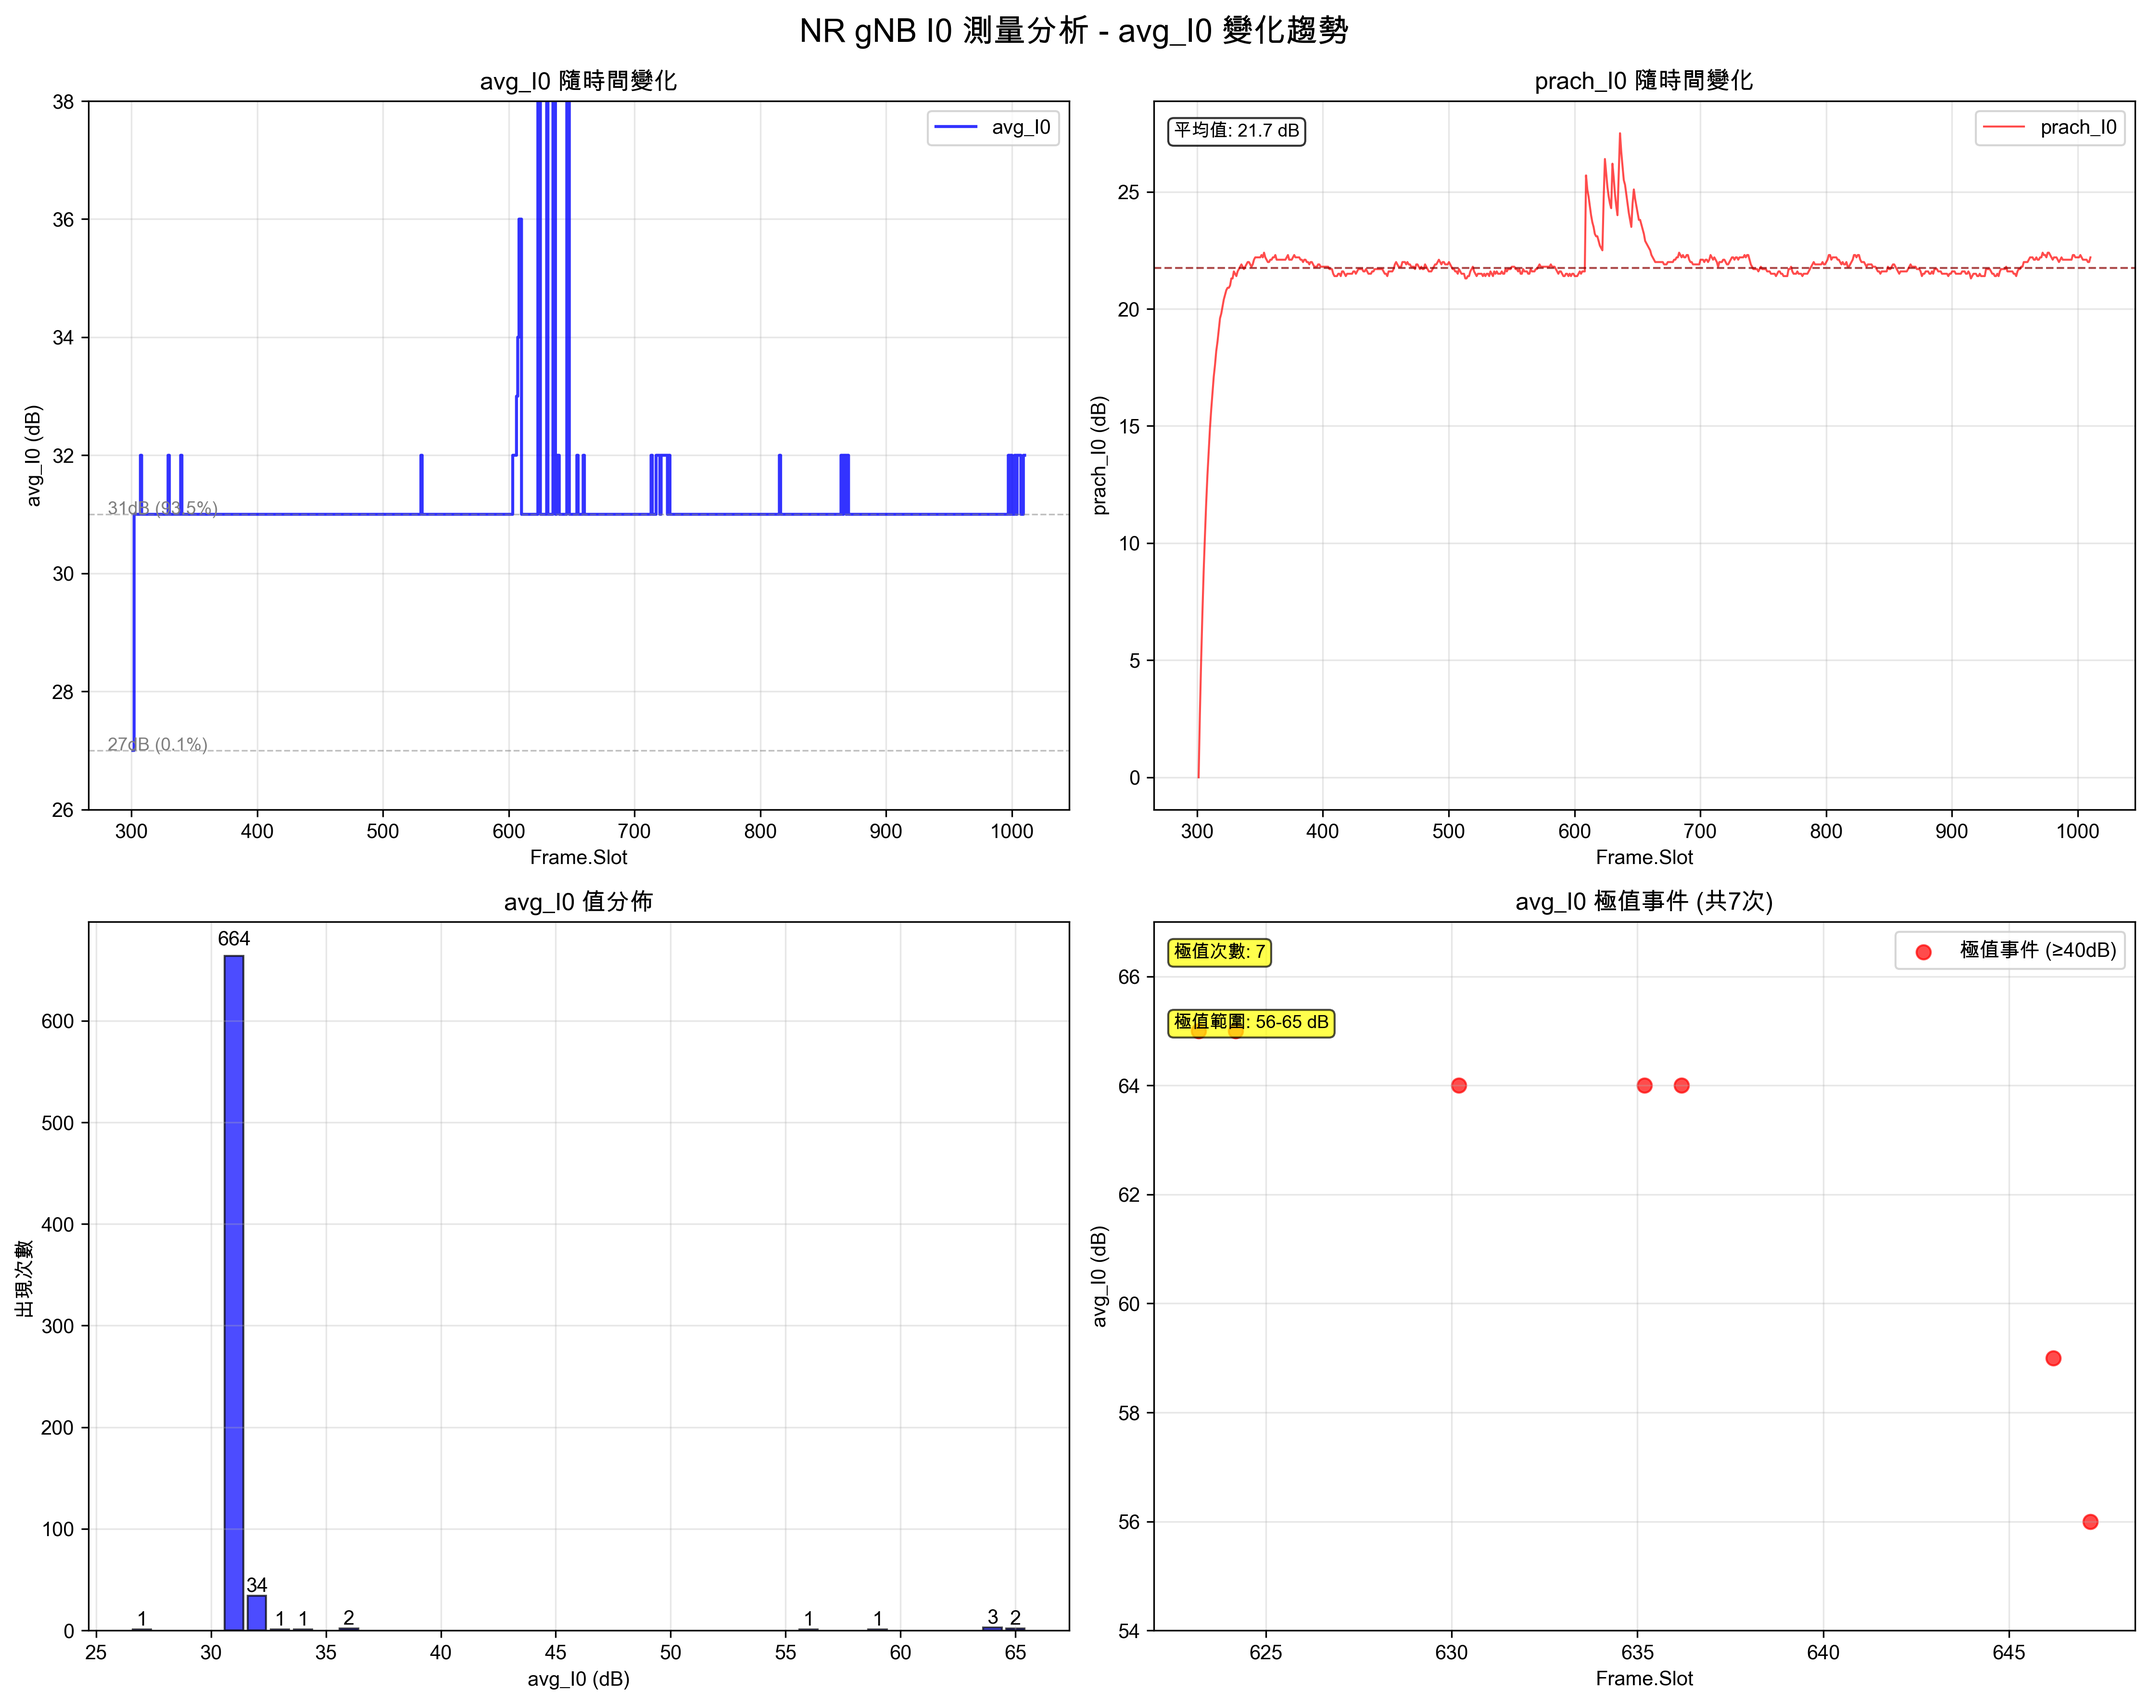
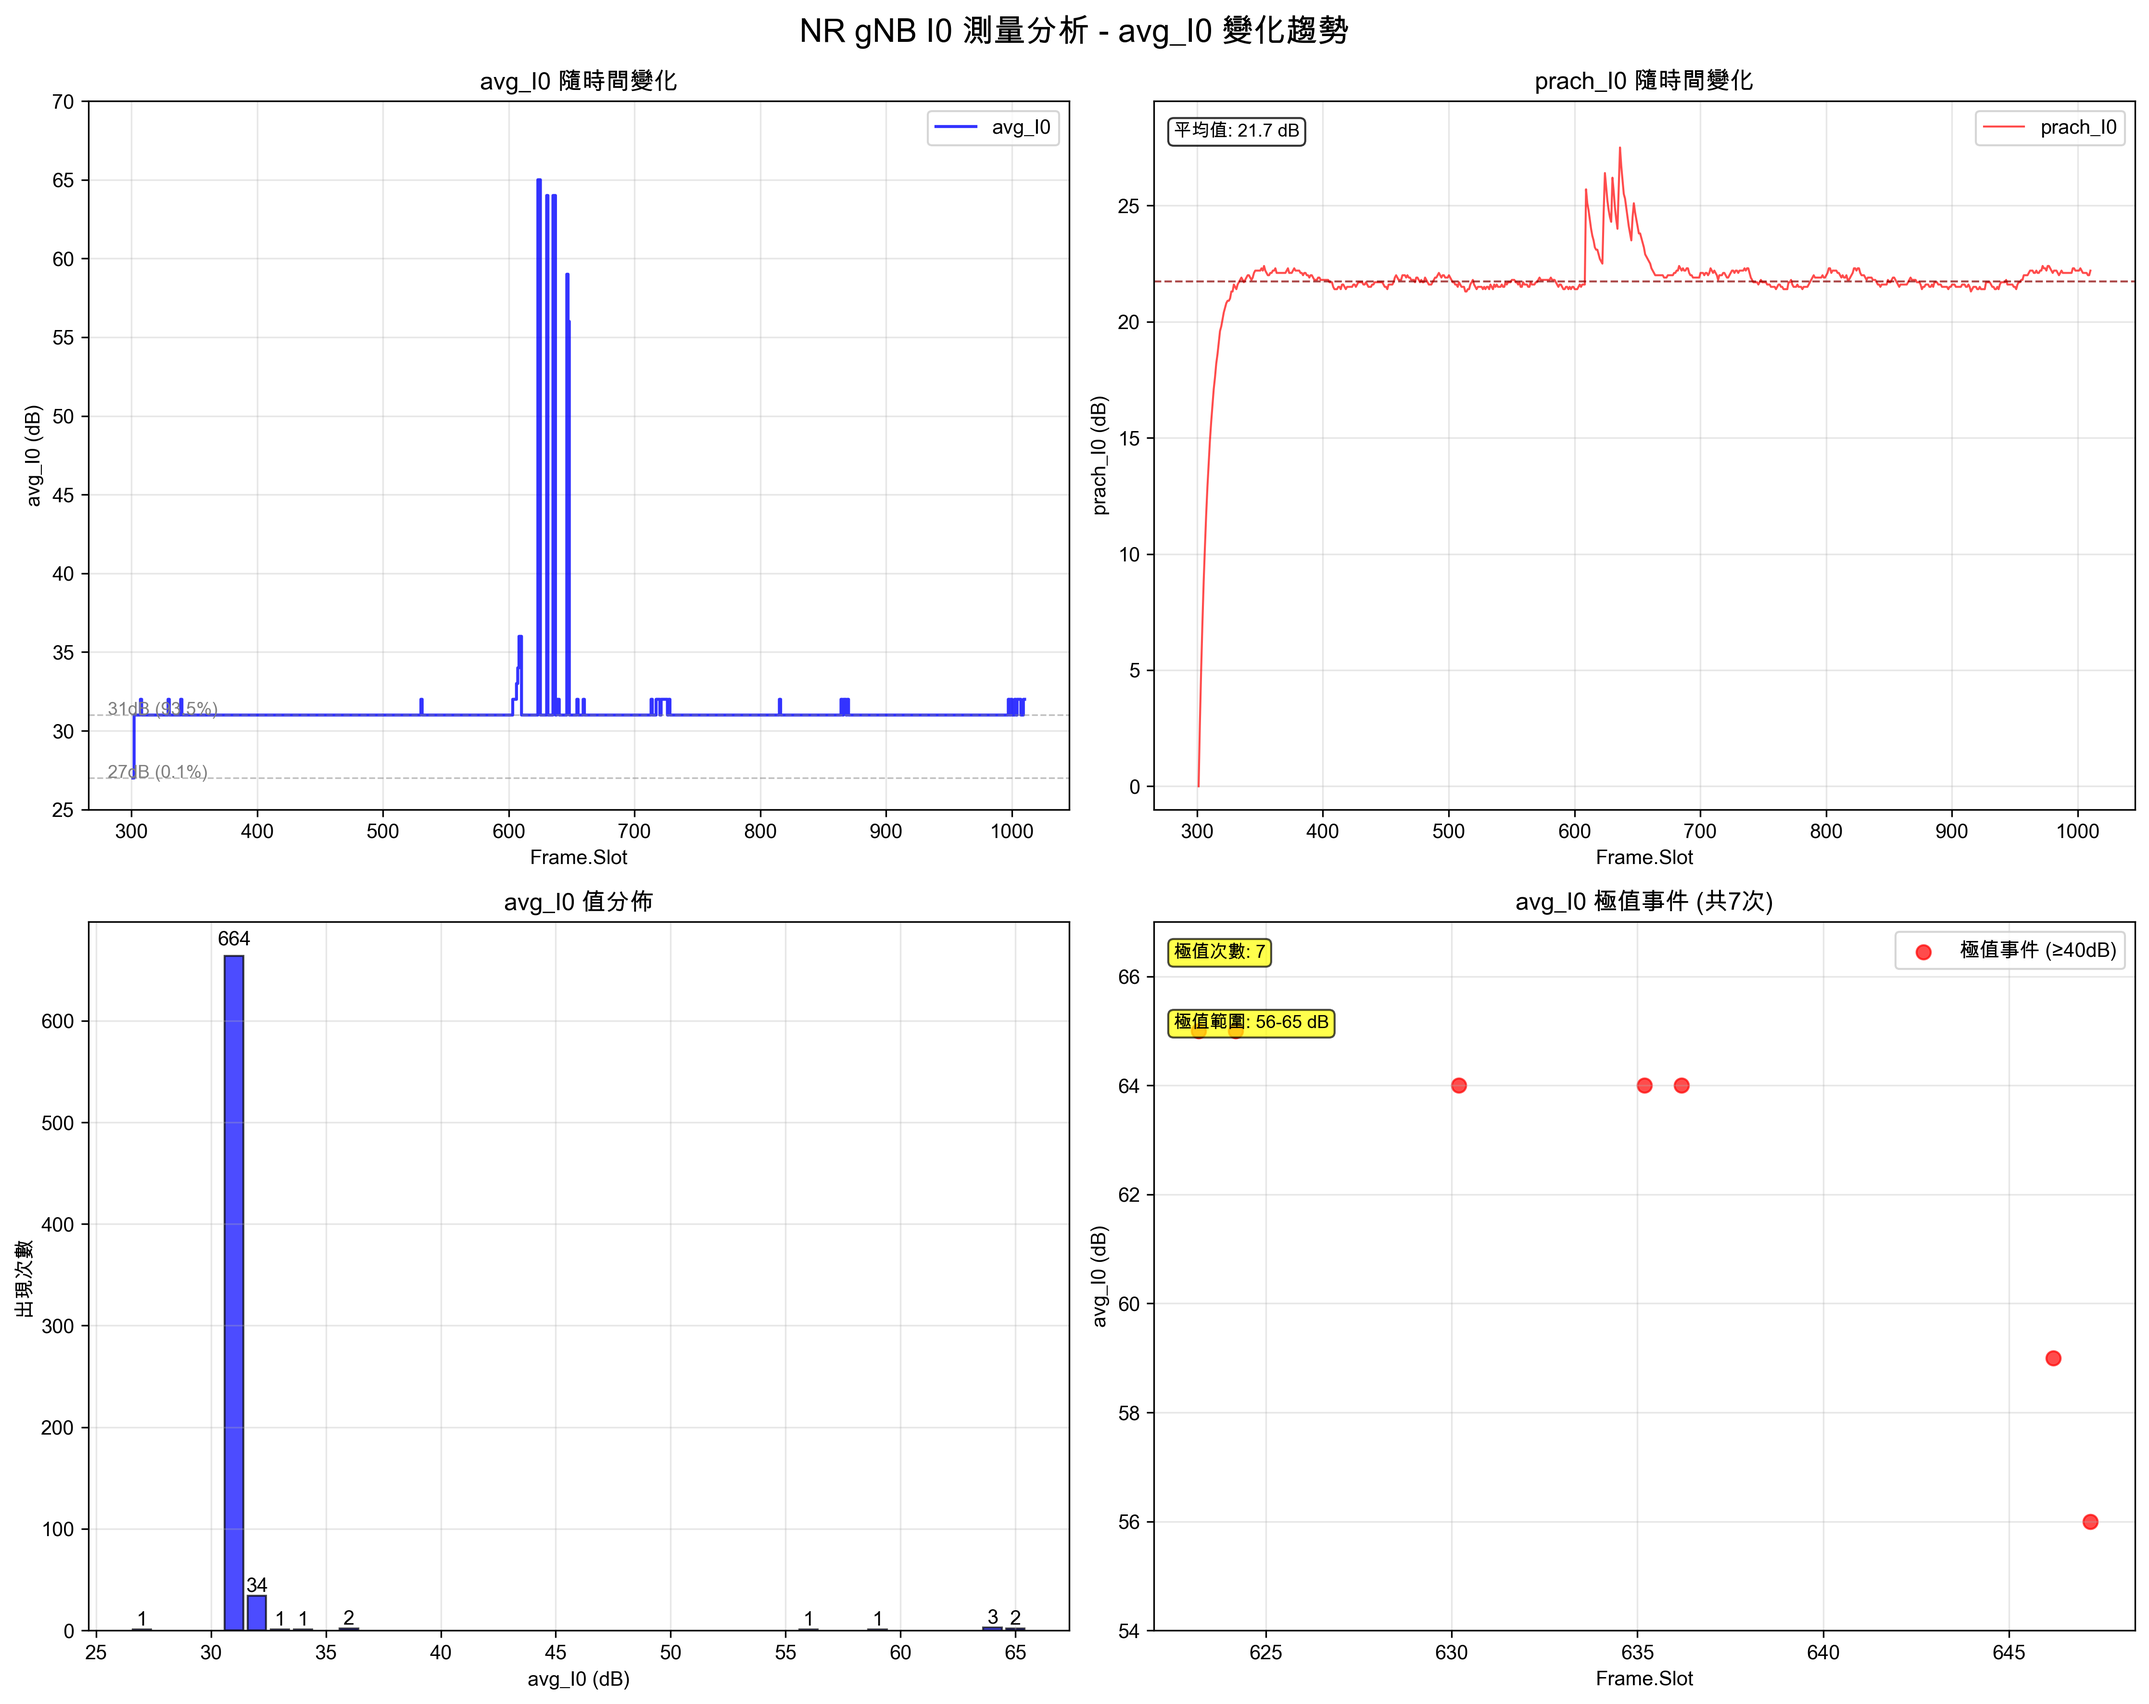
Adjust the Y-axis scale to improve clarity.

diff --git a/avg_i0_analysis.py b/avg_i0_analysis.py
@@ -137,12 +137,10 @@ ax1.set_ylabel('avg_I0 (dB)')
 ax1.set_title('avg_I0 隨時間變化')
 ax1.grid(True, alpha=0.3)
 
-# 設定合理的Y軸範圍，聚焦主要資料範圍
-main_values = [v for v in avg_i0_values if v <= 40]  # 過濾極值
-if main_values:
-    y_min = min(main_values) - 1
-    y_max = max(main_values) + 2
-    ax1.set_ylim(y_min, y_max)
+# 設定Y軸範圍顯示所有數據，包括極值
+y_min = min(avg_i0_values) - 2
+y_max = max(avg_i0_values) + 5  # 增加更多空間以清楚顯示最高值
+ax1.set_ylim(y_min, y_max)
 
 # 添加主要水平參考線
 for value in [24, 27, 31]:
@@ -160,6 +158,11 @@ ax2.set_xlabel('Frame.Slot')
 ax2.set_ylabel('prach_I0 (dB)')
 ax2.set_title('prach_I0 隨時間變化')
 ax2.grid(True, alpha=0.3)
+
+# 設定prach_I0的Y軸範圍顯示完整數據
+y_min_prach = min(prach_i0_values) - 1
+y_max_prach = max(prach_i0_values) + 2
+ax2.set_ylim(y_min_prach, y_max_prach)
 
 # 添加平均值參考線
 mean_prach = statistics.mean(prach_i0_values)
